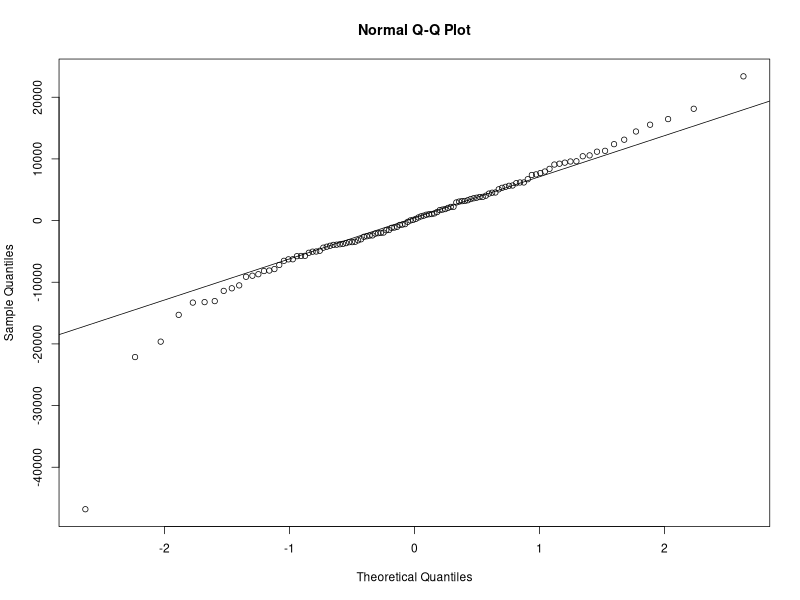
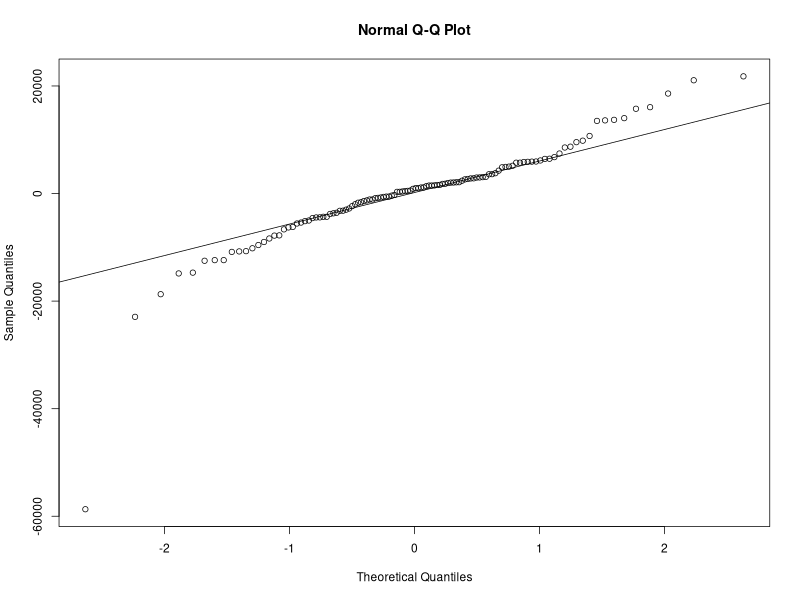
Add trend analysis and update image output paths in main.py; generate residuals and QQ plots for model evaluation

diff --git a/prodotto_interno_lordo/main.py b/prodotto_interno_lordo/main.py
@@ -63,6 +63,17 @@ ts_pil
     pil <- cbind(xx,ts_pil,d1,d2,d3,d4)
     pil
 """)
+    
+    m_trend = r.r(f''' 
+        t <- seq(1, length(ts_pil),1)
+        m_trend <- lm(ts_pil ~ poly(t, 3, raw=TRUE))
+                  
+        png("{PATH}/img/m_trend.png", width=800, height=600)
+        fitted_trend <- fitted(m_trend)
+        ts.plot(fitted_trend, ts_pil, gpars=list(col=c(2,3)), main="Observed vs Fitted Values (Trend Only)")
+        dev.off()
+        summary(m_trend)
+    ''')
 
     m = r.r(f'''
         t <- seq(1, length(ts_pil),1) 
@@ -87,7 +98,7 @@ ts_pil
         png("{PATH}/img/m_residuals.png", width=800, height=600)
         hist(residuals, main="Histogram of Residuals for Model without break", xlab="Residuals")
         
-        png("{PATH}/m_qqplot.png", width=800, height=600)
+        png("{PATH}/img/m_qqplot.png", width=800, height=600)
         qqnorm(residuals); qqline(residuals)
 
         dev.off()
@@ -105,7 +116,7 @@ ts_pil
         dummy_08 <- ifelse(time_points >= 2008.00, 1, 0)
         dummy_20 <- ifelse(time_points >= 2020.00, 1, 0)
                   
-        model_full <- lm(ts_pil ~ d1+d2+d3+d4+poly(t, 1, raw = TRUE) + dummy_08 + dummy_20 + dummy_08:t + dummy_20:t -1)
+        model_full <- lm(ts_pil ~ d1+d2+d3+d4+poly(t, 3, raw = TRUE) + dummy_08+ dummy_08:t + dummy_20 -1)
         
         png("{PATH}/img/time_series_comparison.png", width=1200, height=600)
         fitted_ts <- ts(fitted(model_full), start=start(ts_pil), frequency=frequency(ts_pil))
@@ -123,7 +134,7 @@ ts_pil
         hist(residuals, main="Histogram of Residuals for Model with break", xlab="Residuals")
         curve(dnorm(x),add=T)
 
-        png("{PATH}/m_full_qqplot.png", width=800, height=600)
+        png("{PATH}/img/m_full_qqplot.png", width=800, height=600)
         qqnorm(residuals); qqline(residuals)
         dev.off()
         summary(model_full)
@@ -132,6 +143,8 @@ ts_pil
     r.globalenv['model_full'] = m_dummy
 
     print("DATASET:\n", df)
+
+    print("Summary of Linear Model M_trend:\n",m_trend)
 
     print("Summary of Linear Model M (no break):\n",m)
 
